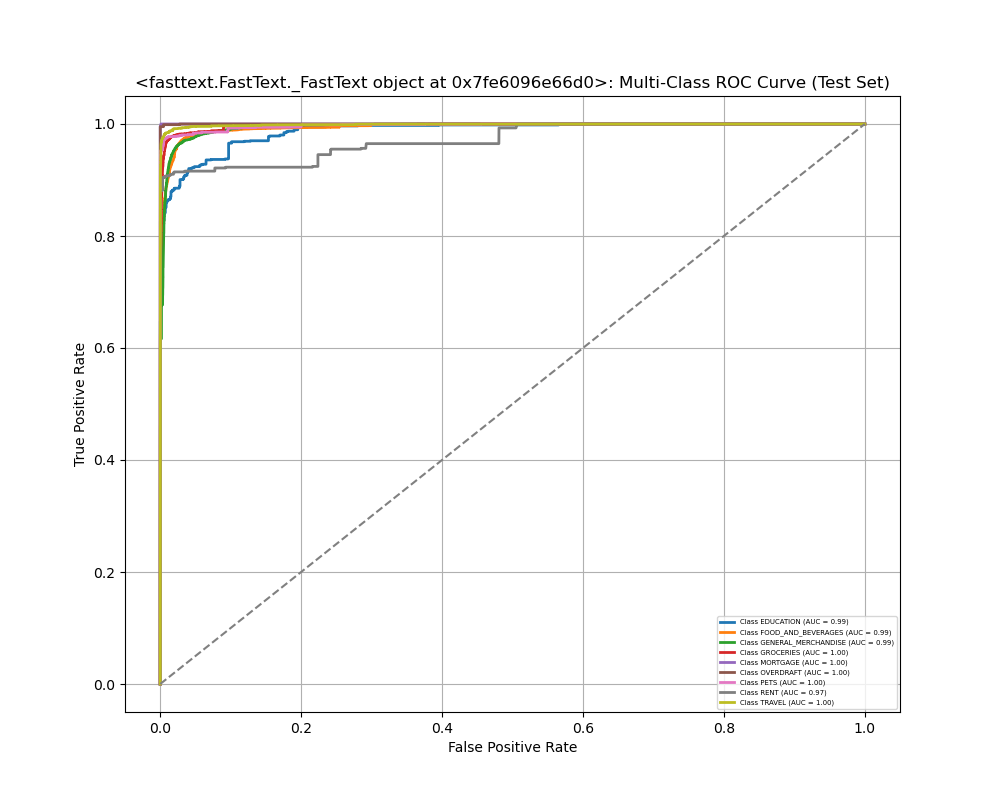
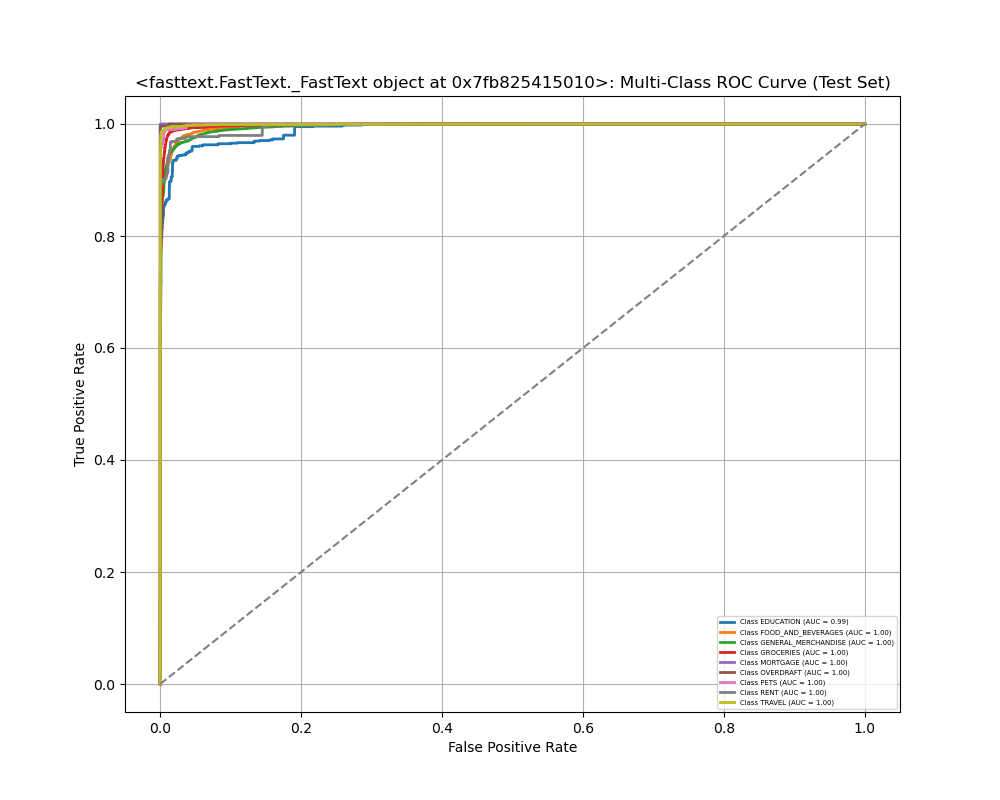
added fasttext figures

Changed region(s): [[0.155, 0.1562, 0.527, 0.3125], [0.496, 0.0938, 0.899, 0.125], [0.868, 0.7812, 0.899, 0.8125]]

diff --git a/run.py b/run.py
@@ -187,7 +187,8 @@ if __name__ == "__main__":
             make_classification_report_csv(y_test, test_preds, model_type, train=False)
             print("Saved DistilBert classifcation reports to result/bert_metrics.csv") 
     
-        
+
+    fasttext_fp = Path('result/models/fasttext.bin')
     if train_fasttext:
         # generate fasttext train file
         print("Creating fastText features")
@@ -197,17 +198,21 @@ if __name__ == "__main__":
         print("Training fastText model_type")
         fasttext_model = fit_fasttext(fasttext_train_fp, ngrams=fasttext_ngrams) 
         print("fastText training done, saving to result/models/fasttext.bin")
-        fasttext_model.save_model('result/models/fasttext.bin')
         
-        # predict
-        if predict_fasttext_bool:
-            print("Making fastText train and test inferences")
-            train_preds_fastext = predict_fasttext(fasttext_model, X_train_llm)
-            test_preds_fasttext = predict_fasttext(fasttext_model, X_test_llm)
+        fasttext_model.save_model(str(fasttext_fp))
+        
+    # predict
+    if predict_fasttext_bool and fasttext_fp.exists():
+        if not train_fasttext:
+            print("Existing fastText model found, loading now...")
+            fasttext_model = fasttext.load_model(str(fasttext_fp))
+        print("Making fastText train and test inferences")
+        train_preds_fastext = predict_fasttext(fasttext_model, X_train_llm)
+        test_preds_fasttext = predict_fasttext(fasttext_model, X_test_llm)
+
+        # evaluate (all evaluation done in this function)
+        acc, fpr, tpr, roc_auc = output_metrics_fasttext(fasttext_train_fp, fasttext_test_fp, fasttext_model)
     
-            # evaluate (all evaluation done in this function)
-            acc, fpr, tpr, roc_auc = output_metrics_fasttext(fasttext_train_fp, fasttext_test_fp, fasttext_model)
-        
         
         
 
